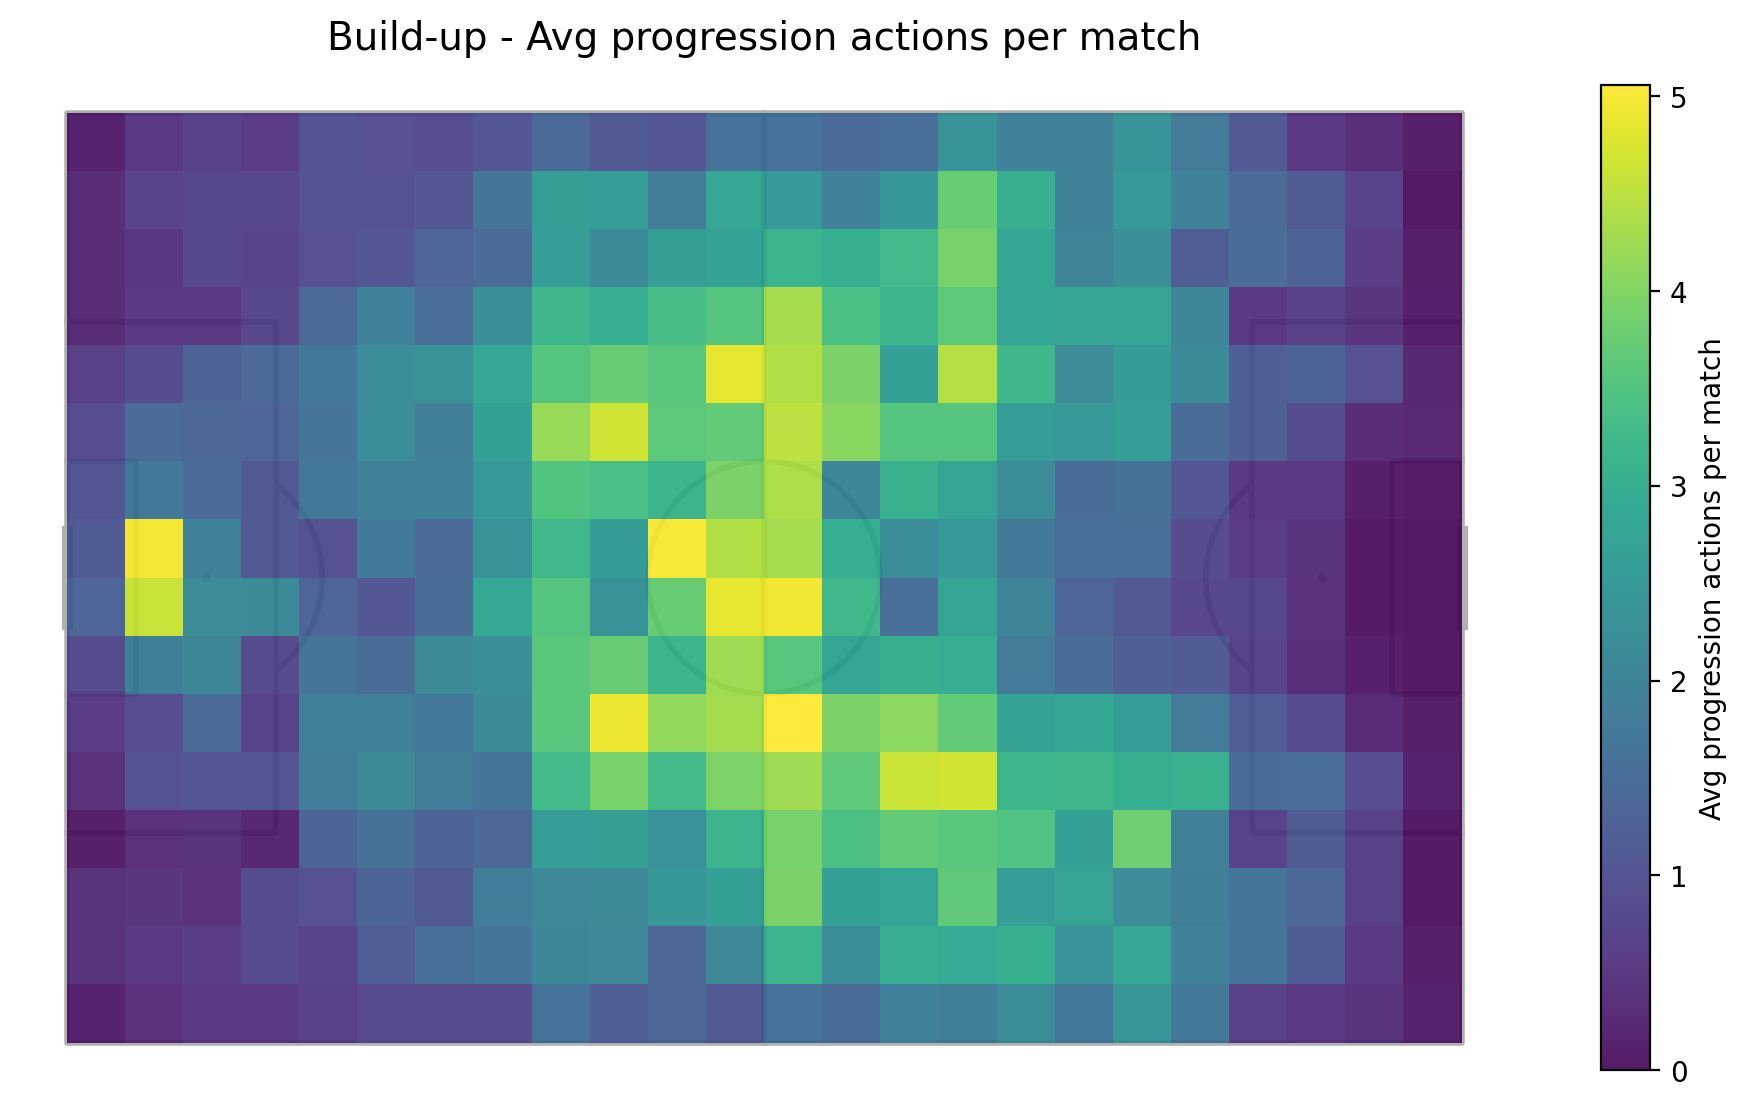
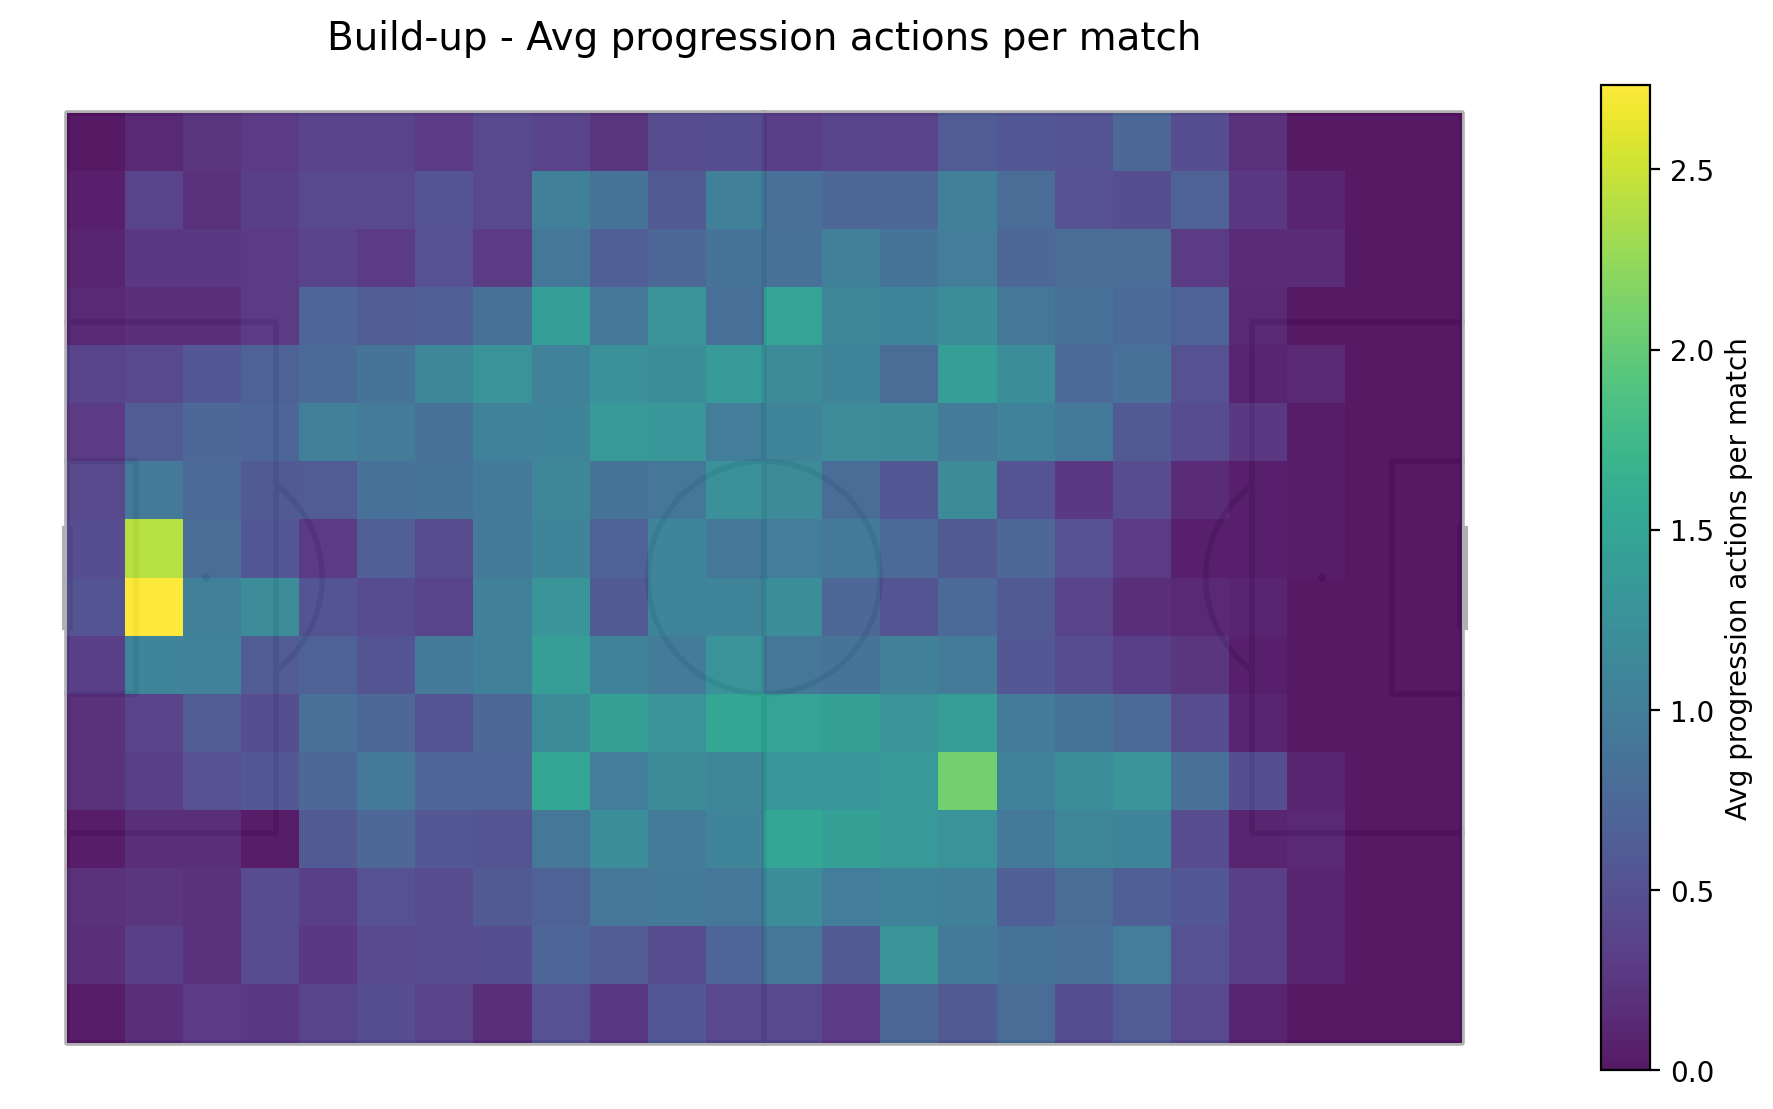
fixed progression heatmap

diff --git a/visualizations/viz_build_up.py b/visualizations/viz_build_up.py
@@ -27,11 +27,9 @@ def main():
 
     ax.set_title("Build-up - Avg progression actions per match", fontsize=14)
 
-    df_prog = df[df["dx"] > 0].copy()
+    df_prog = df[df["is_progressive"] == True].copy()
 
     matches = df_prog["match_id"].nunique()
-    if matches == 0:
-      raise ValueError("No matches found in progressions dataset.")
 
     bins = (24, 16)
 
